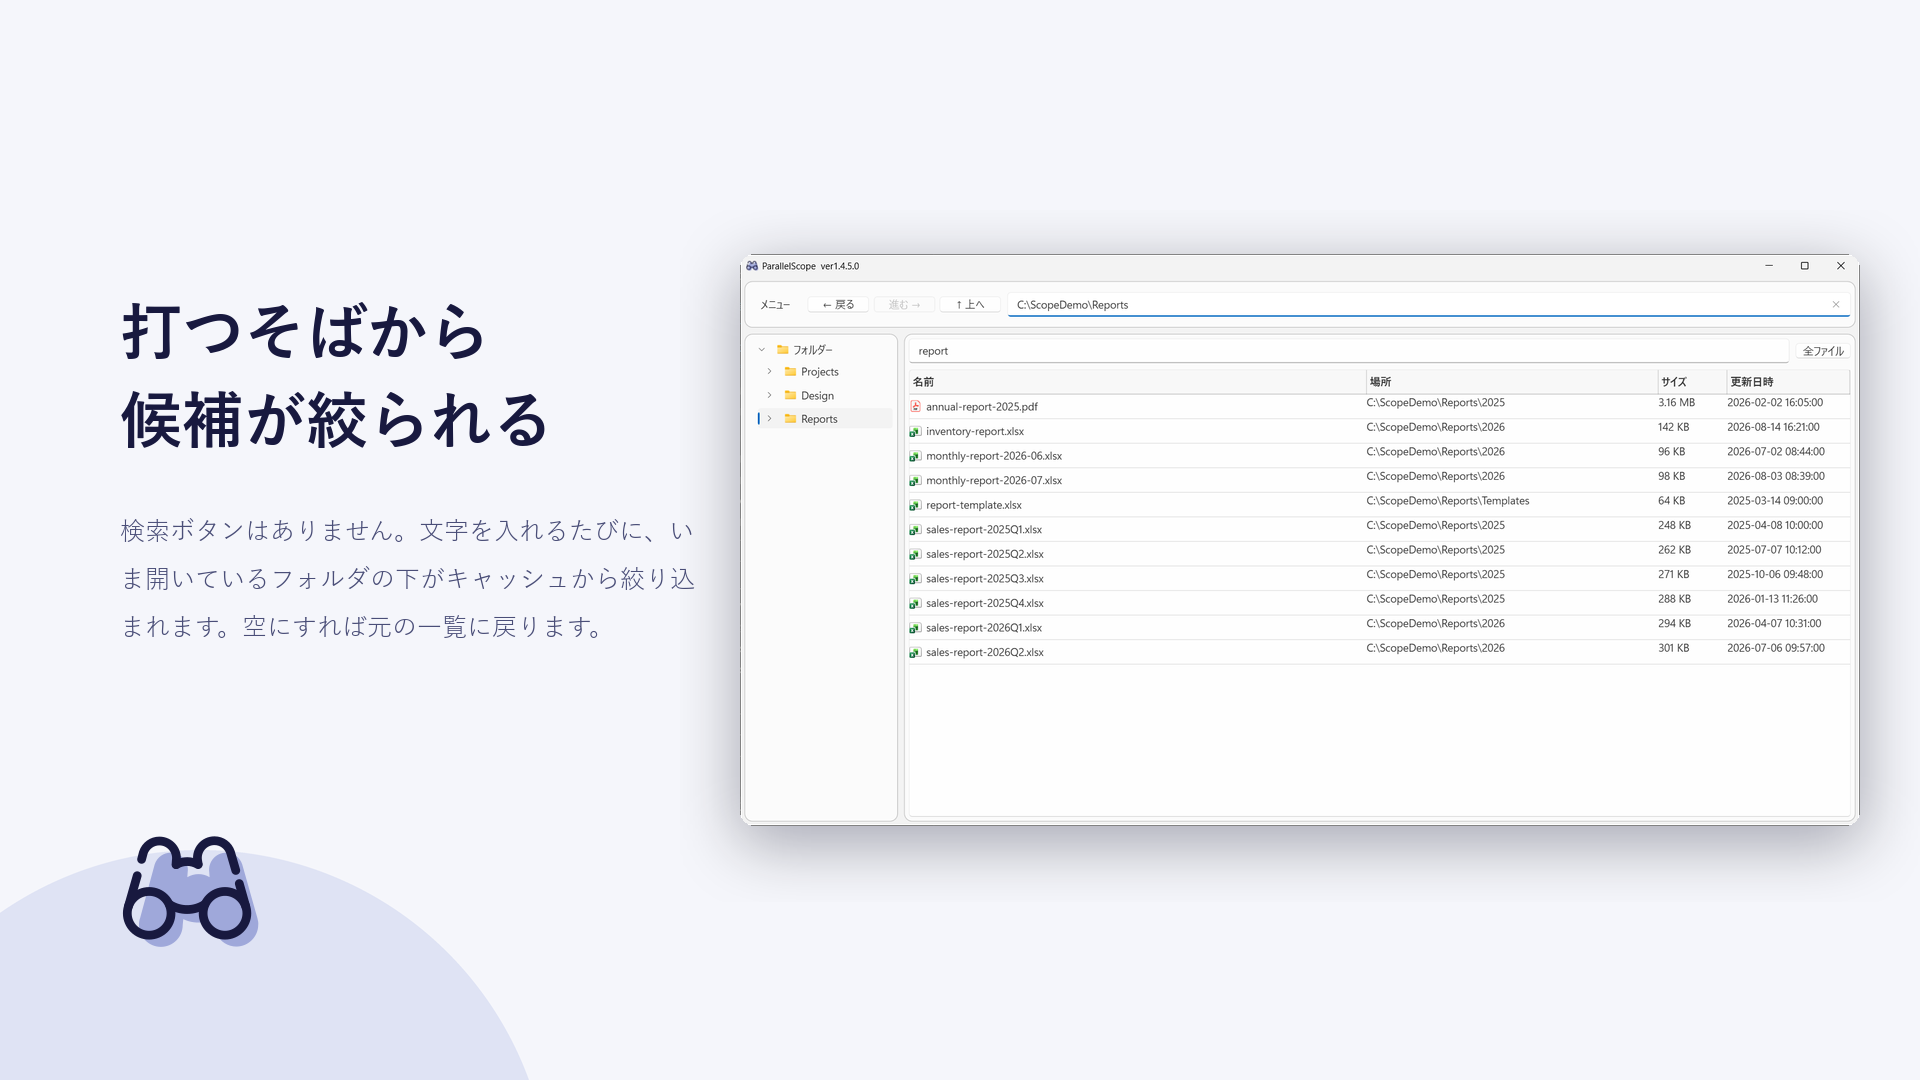
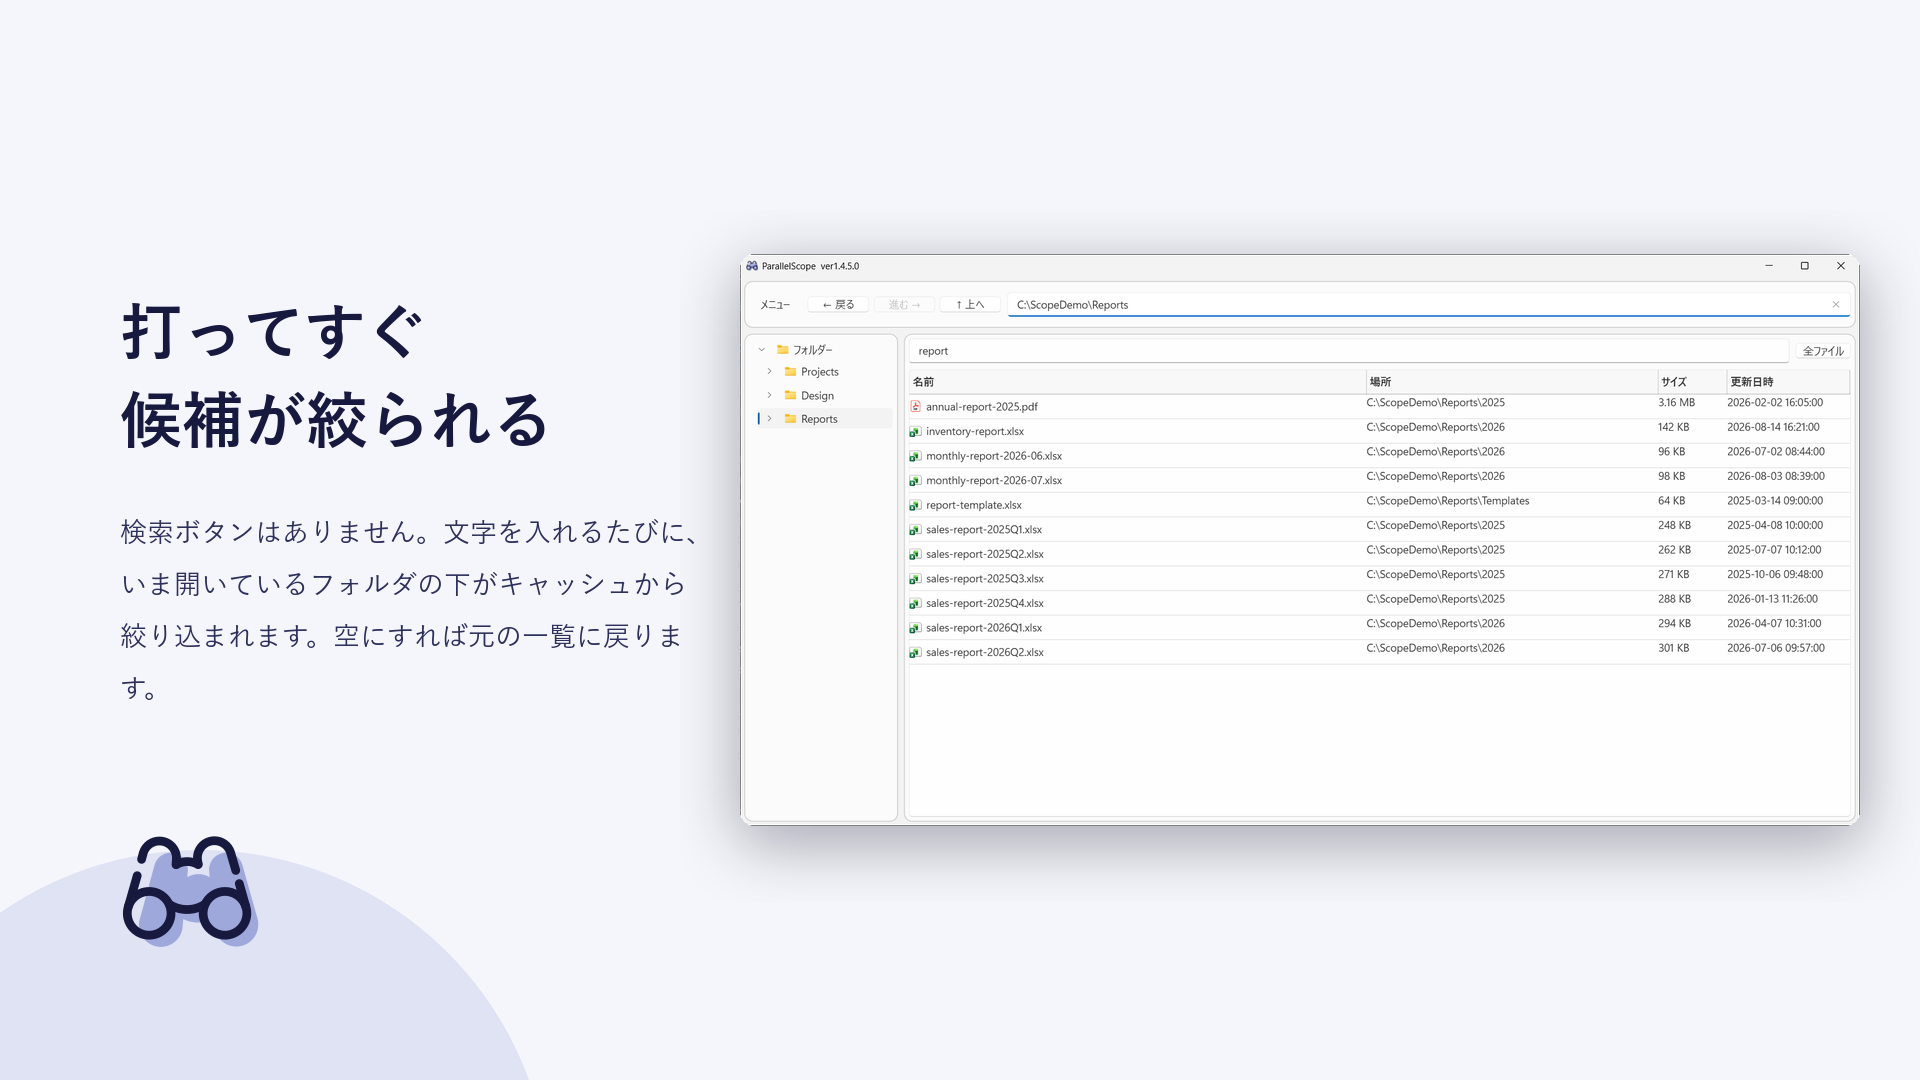
ストア画像の説明文を読みやすくする
本文色を#4A4E78から#2D305Aへ濃くし、日本語は游ゴシックMediumで組む。
サイズと行間も少し広げ、本文がアイコンに掛かったら止まるようにした。
あわせて検索のスクリーンショットの見出しを「打ってすぐ」に直す。

Changed region(s): [[0.0625, 0.4583, 0.375, 0.55], [0.0938, 0.275, 0.25, 0.3361], [0.0625, 0.5806, 0.3438, 0.6111]]

diff --git a/store/assets/compose-screenshots.py b/store/assets/compose-screenshots.py
@@ -41,7 +41,10 @@ WIDTH, HEIGHT = 1920, 1080
 BACKGROUND = (245, 246, 251)
 CIRCLE = (223, 227, 244)
 HEADLINE = (24, 25, 63)
-BODY = (74, 78, 120)
+# 説明文は見出しより一段淡くするが、淡くしすぎると小さな画面（ストアの一覧やスマホ）で
+# 読めなくなる。地色との比が11:1ほど残る濃さに留め、日本語は線の細い游ゴシックRegularではなく
+# Mediumで組む
+BODY = (45, 48, 90)
 
 # 左の文章の位置。右のアプリ画面と重ならない幅に収める
 TEXT_LEFT = 120
@@ -50,16 +53,18 @@ TEXT_WIDTH = 580
 WINDOW_LEFT = 740
 WINDOW_WIDTH = 1120
 
+BADGE_TOP = HEIGHT - 260
+
 # 言語ごとの組み方。日本語は字面が詰まっているぶん行間を広く取る。
 # 英語は語で折り返し、同じ幅に収まるよう見出しを1段小さくする
 LAYOUTS = {
     "ja": {
         "bold": r"C:\Windows\Fonts\YuGothB.ttc",
-        "regular": r"C:\Windows\Fonts\YuGothR.ttc",
+        "regular": r"C:\Windows\Fonts\YuGothM.ttc",
         "headline_size": 62,
         "headline_step": 88,
-        "body_size": 25,
-        "body_step": 48,
+        "body_size": 27,
+        "body_step": 52,
         "word_wrap": False,
     },
     "en": {
@@ -67,8 +72,8 @@ LAYOUTS = {
         "regular": r"C:\Windows\Fonts\segoeui.ttf",
         "headline_size": 58,
         "headline_step": 80,
-        "body_size": 26,
-        "body_step": 42,
+        "body_size": 28,
+        "body_step": 46,
         "word_wrap": True,
     },
 }
@@ -93,7 +98,7 @@ SHOTS = [
         "raw": "02-search.png",
         "out": "02-search.png",
         "ja": {
-            "headline": ["打つそばから", "候補が絞られる"],
+            "headline": ["打ってすぐ", "候補が絞られる"],
             "body": "検索ボタンはありません。文字を入れるたびに、いま開いているフォルダの下が"
                     "キャッシュから絞り込まれます。空にすれば元の一覧に戻ります。",
         },
@@ -265,7 +270,11 @@ def compose(shot: dict, language: str, badge: Image.Image) -> Image.Image:
         draw.text((TEXT_LEFT, y), line, font=body_font, fill=BODY)
         y += layout["body_step"]
 
-    canvas.paste(badge, (TEXT_LEFT, HEIGHT - 260), badge)
+    # 説明文が伸びて左下のアイコンにぶつかったら、そこで気付けるようにする
+    if y > BADGE_TOP - 24:
+        sys.exit(f"説明文がアイコンに掛かります（{language} / {shot['out']}）")
+
+    canvas.paste(badge, (TEXT_LEFT, BADGE_TOP), badge)
 
     # アプリの画面。角を丸めて影を落とし、右側に浮かせる
     with Image.open(RAW / language / shot["raw"]) as raw:

diff --git a/store/assets/generate-store-art.py b/store/assets/generate-store-art.py
@@ -61,7 +61,7 @@ ART_RATIO = 630 / 950
 BACKGROUND = (245, 246, 251)
 CIRCLE = (223, 227, 244)
 HEADLINE = (24, 25, 63)
-BODY = (74, 78, 120)
+BODY = (45, 48, 90)
 
 # 特徴の頭に置く印。色分けの意味は持たせず、箇条書きの点として同じ色で並べる。
 # アイコンの藤色を、地の上で読める濃さまで落としたもの

diff --git a/store/README.md b/store/README.md
@@ -26,7 +26,7 @@ Partner Center へ上げる画像と、その作り方をまとめる。
 | 地色 | `#F5F6FB` | アイコンの藤色 `#9FA8DA` を薄く延ばしたもの |
 | 左下の円 | `#DFE3F4` | 地色より一段濃い藤色 |
 | 見出し | `#18193F` | アイコンの線の色そのまま |
-| 本文 | `#4A4E78` | 見出しを地の上で読める濃さまで起こしたもの |
+| 本文 | `#2D305A` | 小さく表示されても読める濃さ（地色との比で約11:1）まで見出しに寄せたもの |
 | 特徴の印 | `#5A63B0` | アイコンの藤色を濃くしたもの（`generate-store-art.py` のみ） |
 | 掲載ロゴのタイル | `#DCE0F2` | 藤色 `#9FA8DA` の面が沈まない明るさ |
 
@@ -39,7 +39,7 @@ Partner Center へ上げる画像と、その作り方をまとめる。
 - Python（Pillow）… 画像の合成
 - Inkscape … SVG のラスタライズ（`C:\Program Files\Inkscape\bin\inkscape.com` か PATH）
 - PowerShell 7（`pwsh`）… スクリーンショットの撮影
-- 游ゴシック（`YuGothB.ttc` / `YuGothR.ttc`）と Segoe UI … 見出しと本文
+- 游ゴシック（`YuGothB.ttc` / `YuGothM.ttc` / `YuGothR.ttc`）と Segoe UI … 見出しと本文
 
 ## 1. スクリーンショット
 
